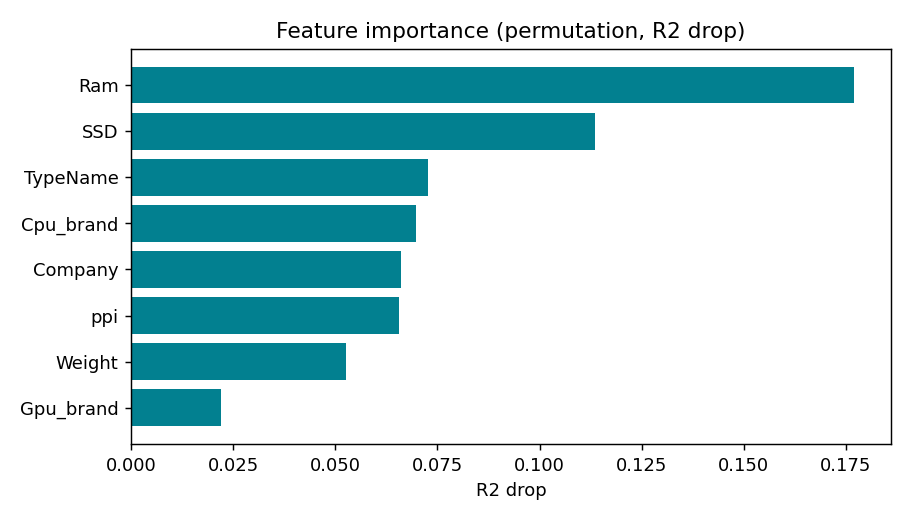
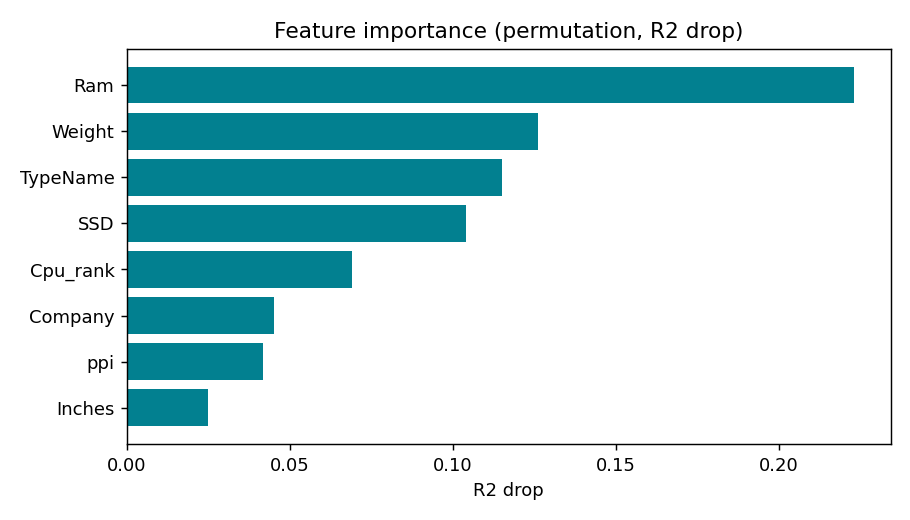
sync docs + slides for monotonicity

diff --git a/docs/build_slides.py b/docs/build_slides.py
@@ -248,7 +248,7 @@ text(
     4.9,
     5.2,
     1.4,
-    "Im więcej danych, tym stabilniejsza wycena. Najważniejsze cechy: RAM, dysk SSD, typ, procesor.",
+    "Gwarancja: więcej RAM/SSD/lepszy CPU → nigdy niższa cena. Najważniejsze cechy: RAM, SSD, typ.",
     size=15,
     color=MUTED,
 )

diff --git a/docs/superpowers/plans/2026-06-04-laptop-price.md b/docs/superpowers/plans/2026-06-04-laptop-price.md
@@ -45,17 +45,18 @@ data:
   raw_path: data/raw/laptop_data.csv
   synthetic: {enabled: true, n_rows: 1300, seed: 42}
   target: Price
-  numeric_features: [Ram, Weight, Inches, ppi, SSD, HDD, Touchscreen, Ips]
-  categorical_features: [Company, TypeName, Cpu_brand, Gpu_brand, Os]
+  numeric_features: [Ram, Weight, Inches, ppi, SSD, HDD, Touchscreen, Ips, Cpu_rank]
+  categorical_features: [Company, TypeName, Gpu_brand, Os]
   test_size: 0.2
   random_state: 42
 model:
   task: regression
   time_budget_s: 60
   metric: r2
-  estimator_list: [lgbm, rf, extra_tree]
-  ensemble: true
+  estimator_list: [lgbm]
+  ensemble: false
   log_target: true
+  monotone_increasing: [Ram, SSD, HDD, ppi, Cpu_rank]
   artifact_dir: model/artifacts
   artifact_name: model.joblib
   metrics_name: metrics.json
@@ -108,7 +109,7 @@ import pandas as pd
 
 ENGINEERED_COLUMNS = [
     "Company", "TypeName", "Inches", "Ram", "Weight", "Touchscreen", "Ips",
-    "ppi", "Cpu_brand", "SSD", "HDD", "Gpu_brand", "Os", "Price",
+    "ppi", "Cpu_rank", "SSD", "HDD", "Gpu_brand", "Os", "Price",
 ]
 
 
@@ -150,7 +151,7 @@ def engineer_features(df: pd.DataFrame) -> pd.DataFrame:
     df["Ips"] = df["ScreenResolution"].str.contains("IPS").astype(int)
     resolution = df["ScreenResolution"].str.extract(r"(\d+)x(\d+)").astype(float)
     df["ppi"] = ((resolution[0] ** 2 + resolution[1] ** 2) ** 0.5 / df["Inches"]).round(2)
-    df["Cpu_brand"] = df["Cpu"].apply(_cpu_brand)
+    df["Cpu_rank"] = df["Cpu"].apply(lambda t: CPU_RANK[_cpu_brand(t)])
     df[["SSD", "HDD"]] = df["Memory"].apply(_parse_memory)
     df["Gpu_brand"] = df["Gpu"].apply(lambda text: str(text).split()[0])
     df = df[df["Gpu_brand"] != "ARM"]
@@ -362,4 +363,4 @@ def train(config: AppConfig) -> Dict:
 
 **Open dependency:** group index numbers (Task 16).
 
-**Type consistency:** `AppConfig.feature_columns`/`artifact_path`/`metrics_path`/`log_target`/`ensemble`, `engineer_features`, `load_data`, `split_data`, `build_preprocessor`, `regression_metrics`, `train(config)->dict`, `REQUEST_TO_COLUMN`/`to_feature_row`/`predict_price`, and the Pydantic enums are used identically across tasks; engineered column names (`Ram`, `Cpu_brand`, `ppi`, …) match `features.py`, `config.yaml` and the schemas.
+**Type consistency:** `AppConfig.feature_columns`/`artifact_path`/`metrics_path`/`log_target`/`ensemble`, `engineer_features`, `load_data`, `split_data`, `build_preprocessor`, `regression_metrics`, `train(config)->dict`, `REQUEST_TO_COLUMN`/`to_feature_row`/`predict_price`, and the Pydantic enums are used identically across tasks; engineered column names (`Ram`, `Cpu_rank`, `ppi`, …) match `features.py`, `config.yaml` and the schemas.

diff --git a/docs/superpowers/specs/2026-06-04-laptop-price-design.md b/docs/superpowers/specs/2026-06-04-laptop-price-design.md
@@ -73,7 +73,7 @@ the artifact directly in standalone mode).
 | `Ram` = "8GB" | `Ram` (int) |
 | `Weight` = "1.37kg" | `Weight` (float) |
 | `ScreenResolution` = "IPS … 1920x1080" | `Touchscreen` (0/1), `Ips` (0/1), `ppi` (float) |
-| `Cpu` = "Intel Core i5 7200U …" | `Cpu_brand` (i3/i5/i7/Other Intel/AMD) |
+| `Cpu` = "Intel Core i5 7200U …" | `Cpu_rank` (ordinal tier: i3 < i5 < i7) |
 | `Memory` = "256GB SSD + 1TB HDD" | `SSD` (GB), `HDD` (GB) |
 | `Gpu` = "Nvidia …" | `Gpu_brand` (Intel/Nvidia/AMD) |
 | `OpSys` | `Os` (Windows/Mac/Other) |
@@ -82,8 +82,8 @@ Also drops the index column, drops `ARM` GPUs, and **drops rows with missing/inv
 engineered values** (`Ram`/`Weight`/`ppi`) — real cleaning.
 
 **Engineered schema (target = `Price`):**
-numeric `Ram, Weight, Inches, ppi, SSD, HDD, Touchscreen, Ips`;
-categorical `Company, TypeName, Cpu_brand, Gpu_brand, Os`.
+numeric `Ram, Weight, Inches, ppi, SSD, HDD, Touchscreen, Ips, Cpu_rank`;
+categorical `Company, TypeName, Gpu_brand, Os`.
 
 - **`load.py`**: real CSV → `engineer_features`; else synthetic (already engineered).
   Then `validate_schema` checks required columns exist + non-empty (per-cell nulls allowed
@@ -100,7 +100,8 @@ categorical `Company, TypeName, Cpu_brand, Gpu_brand, Os`.
   `<model>` is `AutoML()` or, when `log_target` is set, `TransformedTargetRegressor(AutoML(),
   func=log1p, inverse_func=expm1)` so the pipeline trains on log-price but **predicts the
   real price** (honest R² in currency units). FLAML settings (task, time budget, metric=r2,
-  `estimator_list=[lgbm, rf, extra_tree]`, `ensemble=True`, seed) come from config.
+  `estimator_list=[lgbm]`, `ensemble=False`, `monotone_increasing` (Ram/SSD/HDD/ppi/Cpu_rank
+  constrained non-decreasing via LightGBM `monotone_constraints`), seed) come from config.
 - **Artifacts:** `model.joblib` (the Pipeline) + `metrics.json` (mae, rmse, r2,
   best_estimator, training_date, n_rows, data_source, feature_columns, target, and
   **permutation feature importance** — model-agnostic, works through the TTR + ensemble).
@@ -126,7 +127,8 @@ categorical `Company, TypeName, Cpu_brand, Gpu_brand, Os`.
 
 Single source of truth, validated on load. `data` (raw path, synthetic toggle/size/seed,
 target, numeric/categorical feature lists, test split); `model` (task, time_budget_s,
-metric, estimator_list, `ensemble`, `log_target`, artifact paths, seed); `api`/`ui`.
+metric, estimator_list, `ensemble`, `log_target`, `monotone_increasing`, artifact paths,
+seed); `api`/`ui`.
 Swapping dataset / retuning = config edit, not code edit.
 
 ## 8. Engineering extras

diff --git a/docs/data_card.md b/docs/data_card.md
@@ -16,7 +16,7 @@ The raw data stores several fields as messy strings. `data/features.py` parses t
 | `Ram` = "8GB" | `Ram` (int) |
 | `Weight` = "1.37kg" | `Weight` (float) |
 | `ScreenResolution` = "IPS Panel … 1920x1080" | `Touchscreen` (0/1), `Ips` (0/1), `ppi` (float) |
-| `Cpu` = "Intel Core i5 7200U 2.5GHz" | `Cpu_brand` (i3/i5/i7/Other Intel/AMD) |
+| `Cpu` = "Intel Core i5 7200U 2.5GHz" | `Cpu_rank` (ordinal tier: i3 < i5 < i7) |
 | `Memory` = "256GB SSD + 1TB HDD" | `SSD` (GB), `HDD` (GB) |
 | `Gpu` = "Nvidia GeForce MX150" | `Gpu_brand` (Intel/Nvidia/AMD) |
 | `OpSys` | `Os` (Windows/Mac/Other) |
@@ -25,8 +25,8 @@ It also drops the index column and **drops rows with invalid/missing engineered 
 (physically impossible or unparseable) — real data cleaning.
 
 ## Engineered schema (target = `Price`)
-- **Numeric:** `Ram`, `Weight`, `Inches`, `ppi`, `SSD`, `HDD`, `Touchscreen`, `Ips`
-- **Categorical:** `Company`, `TypeName`, `Cpu_brand`, `Gpu_brand`, `Os`
+- **Numeric:** `Ram`, `Weight`, `Inches`, `ppi`, `SSD`, `HDD`, `Touchscreen`, `Ips`, `Cpu_rank`
+- **Categorical:** `Company`, `TypeName`, `Gpu_brand`, `Os`
 
 ## Target distribution
 ![Price distribution](img/target_hist.png)
@@ -35,8 +35,8 @@ It also drops the index column and **drops rows with invalid/missing engineered 
 ![RAM vs price](img/feature_scatter.png)
 
 ## Baseline model
-FLAML AutoML (stacked ensemble) with a **log-target** on a 20% holdout:
-**MAE ≈ 9 600 · RMSE ≈ 14 600 · R² ≈ 0.85** on the original price scale
+FLAML AutoML (single LightGBM with **monotone constraints**) and a **log-target** on a 20%
+holdout: **MAE ≈ 9 400 · RMSE ≈ 14 700 · R² ≈ 0.85** on the original price scale
 (≈ 0.88 measured on log-price). Top features (permutation importance): RAM, SSD, laptop
 type, CPU tier. Live values are written to `model/artifacts/metrics.json` and served at
 `GET /model-info`.

diff --git a/README.md b/README.md
@@ -21,7 +21,7 @@ Three independent packages, communicating through a saved artifact and HTTP:
 - **data/** — load the raw CSV and **engineer + clean** it (`features.py`: parse "8GB"→8,
   "1.37kg"→1.37, screen resolution→PPI/touch/IPS, CPU/memory/GPU→brand & capacities), or
   generate synthetic data with the same engineered schema; then split + preprocess.
-- **model/** — train via AutoML (FLAML, stacked ensemble, log-target) and persist one
+- **model/** — train via AutoML (FLAML) with a log-target and monotone constraints, and persist one
   scikit-learn `Pipeline` (`model.joblib`) plus `metrics.json`.
 - **app/** — FastAPI service serving `/predict`, `/health`, `/model-info`; a Streamlit UI
   calls the API (with a standalone fallback that loads the model directly when no API is
@@ -99,7 +99,8 @@ Single source of truth, validated on load. Key sections:
 
 - `data` — dataset path, synthetic toggle + size + seed, target, numeric/categorical
   feature lists, test split.
-- `model` — AutoML task, `time_budget_s`, metric, `estimator_list`, `ensemble` (stacking),
+- `model` — AutoML task, `time_budget_s`, metric, `estimator_list`, `ensemble`,
+  `monotone_increasing` (guarantees more RAM/SSD/better CPU never lowers the price),
   `log_target` (train on log-price, predict real price), artifact paths, seed.
   **This is the AutoML config.**
 - `api` / `ui` — host/port and the API URL the UI calls.